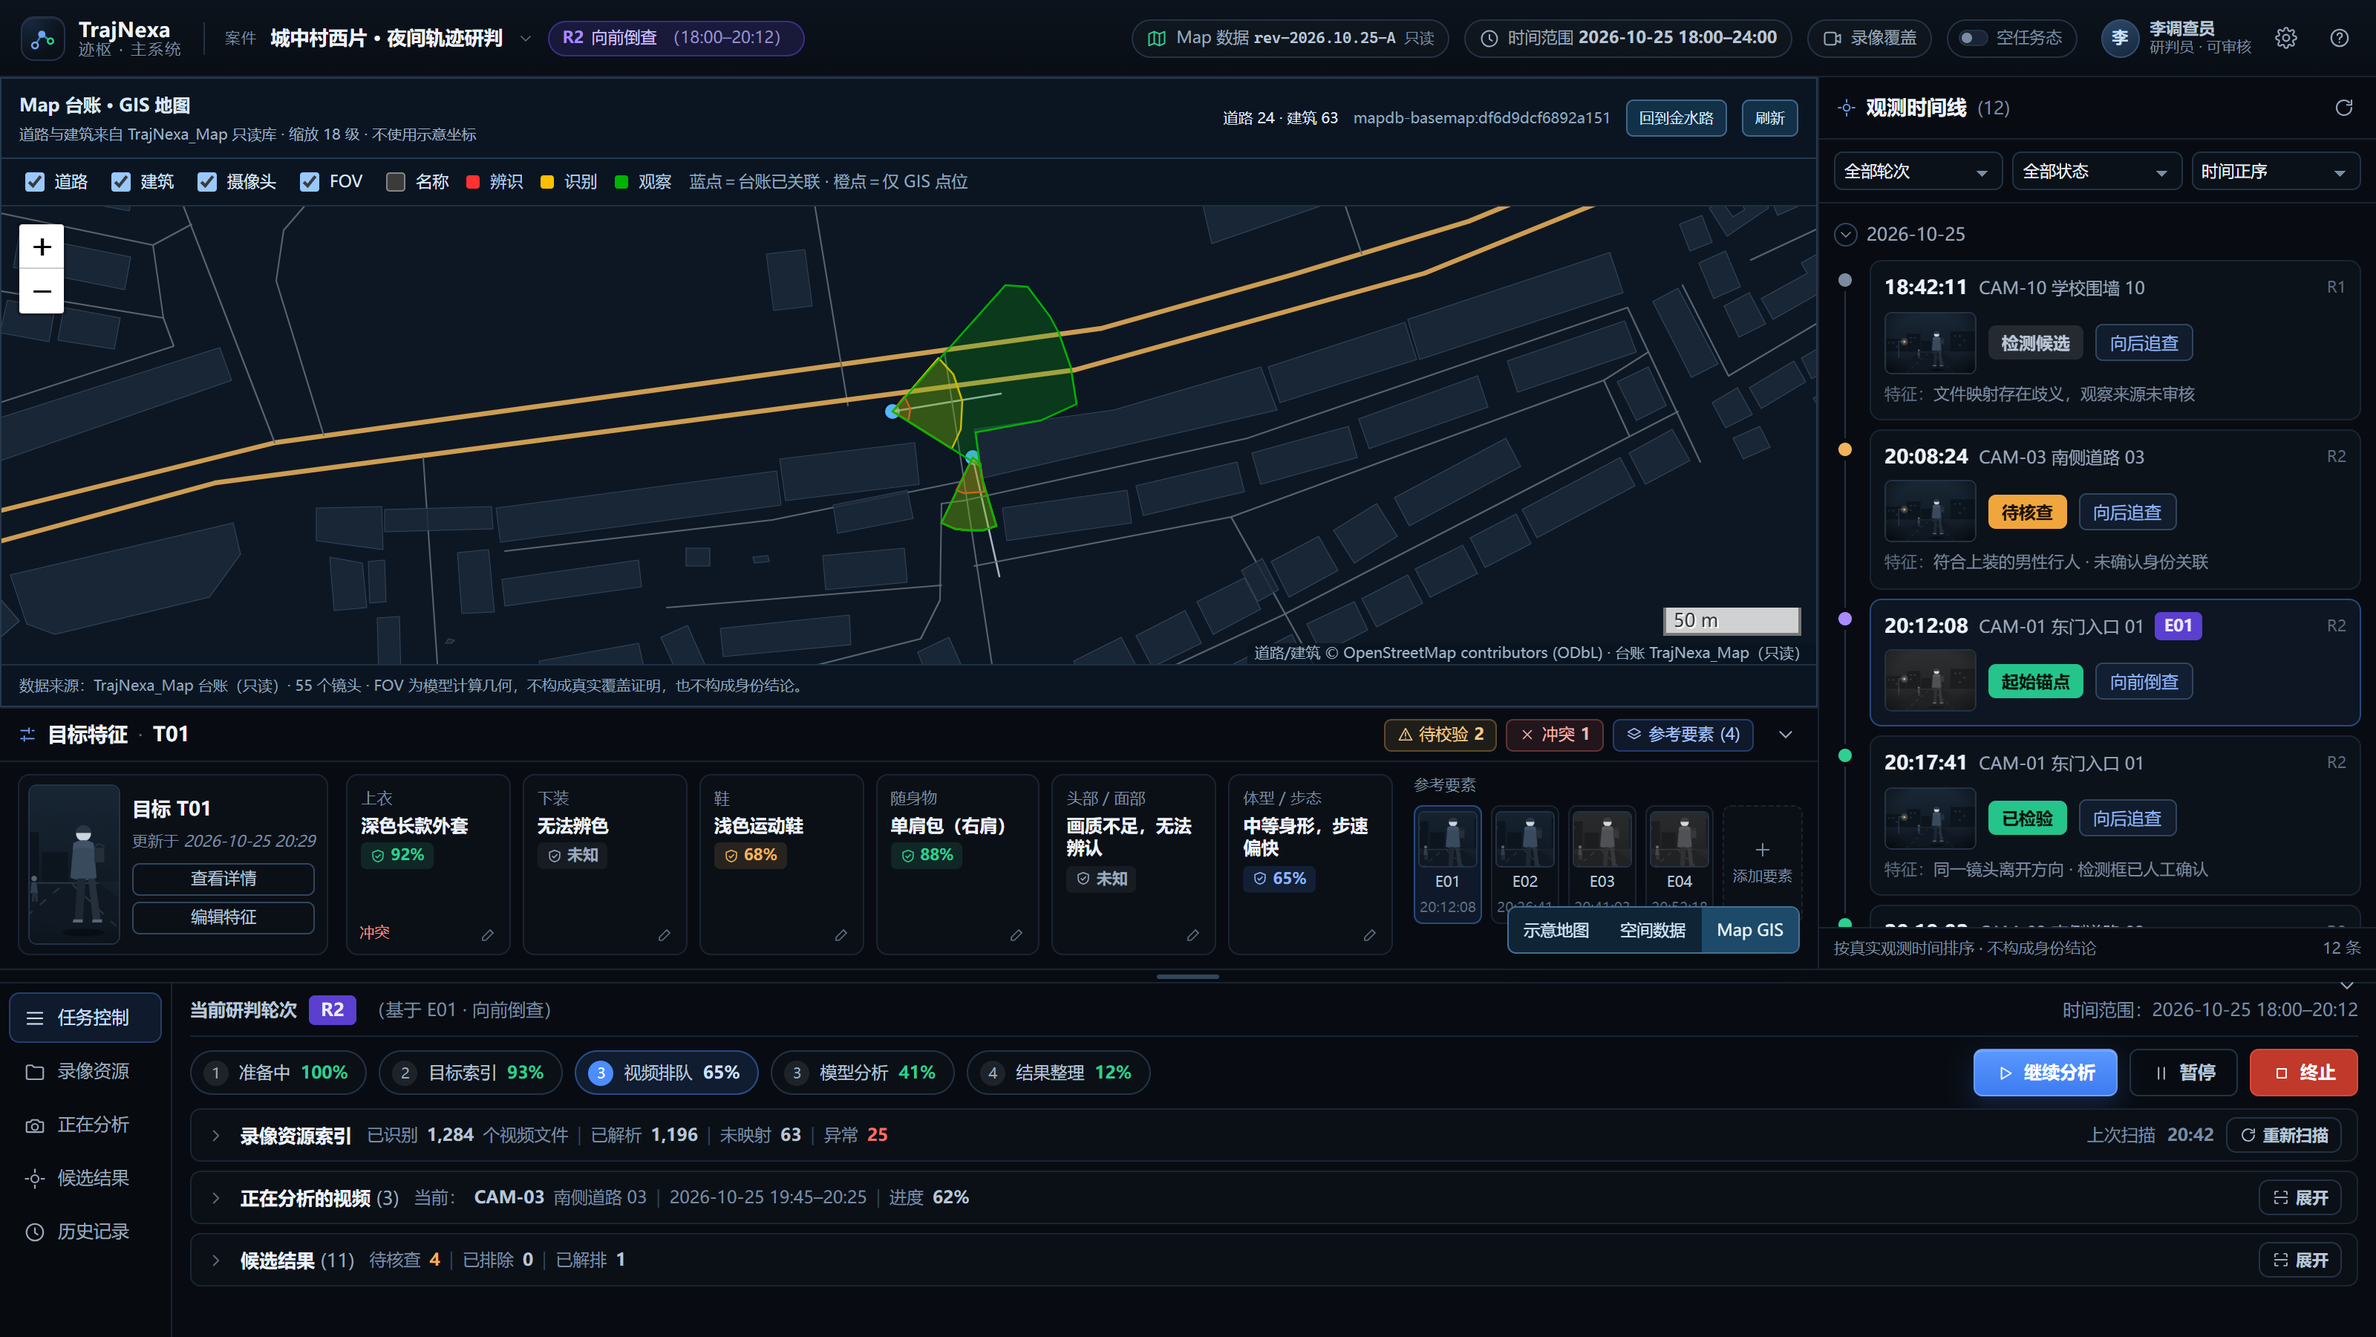
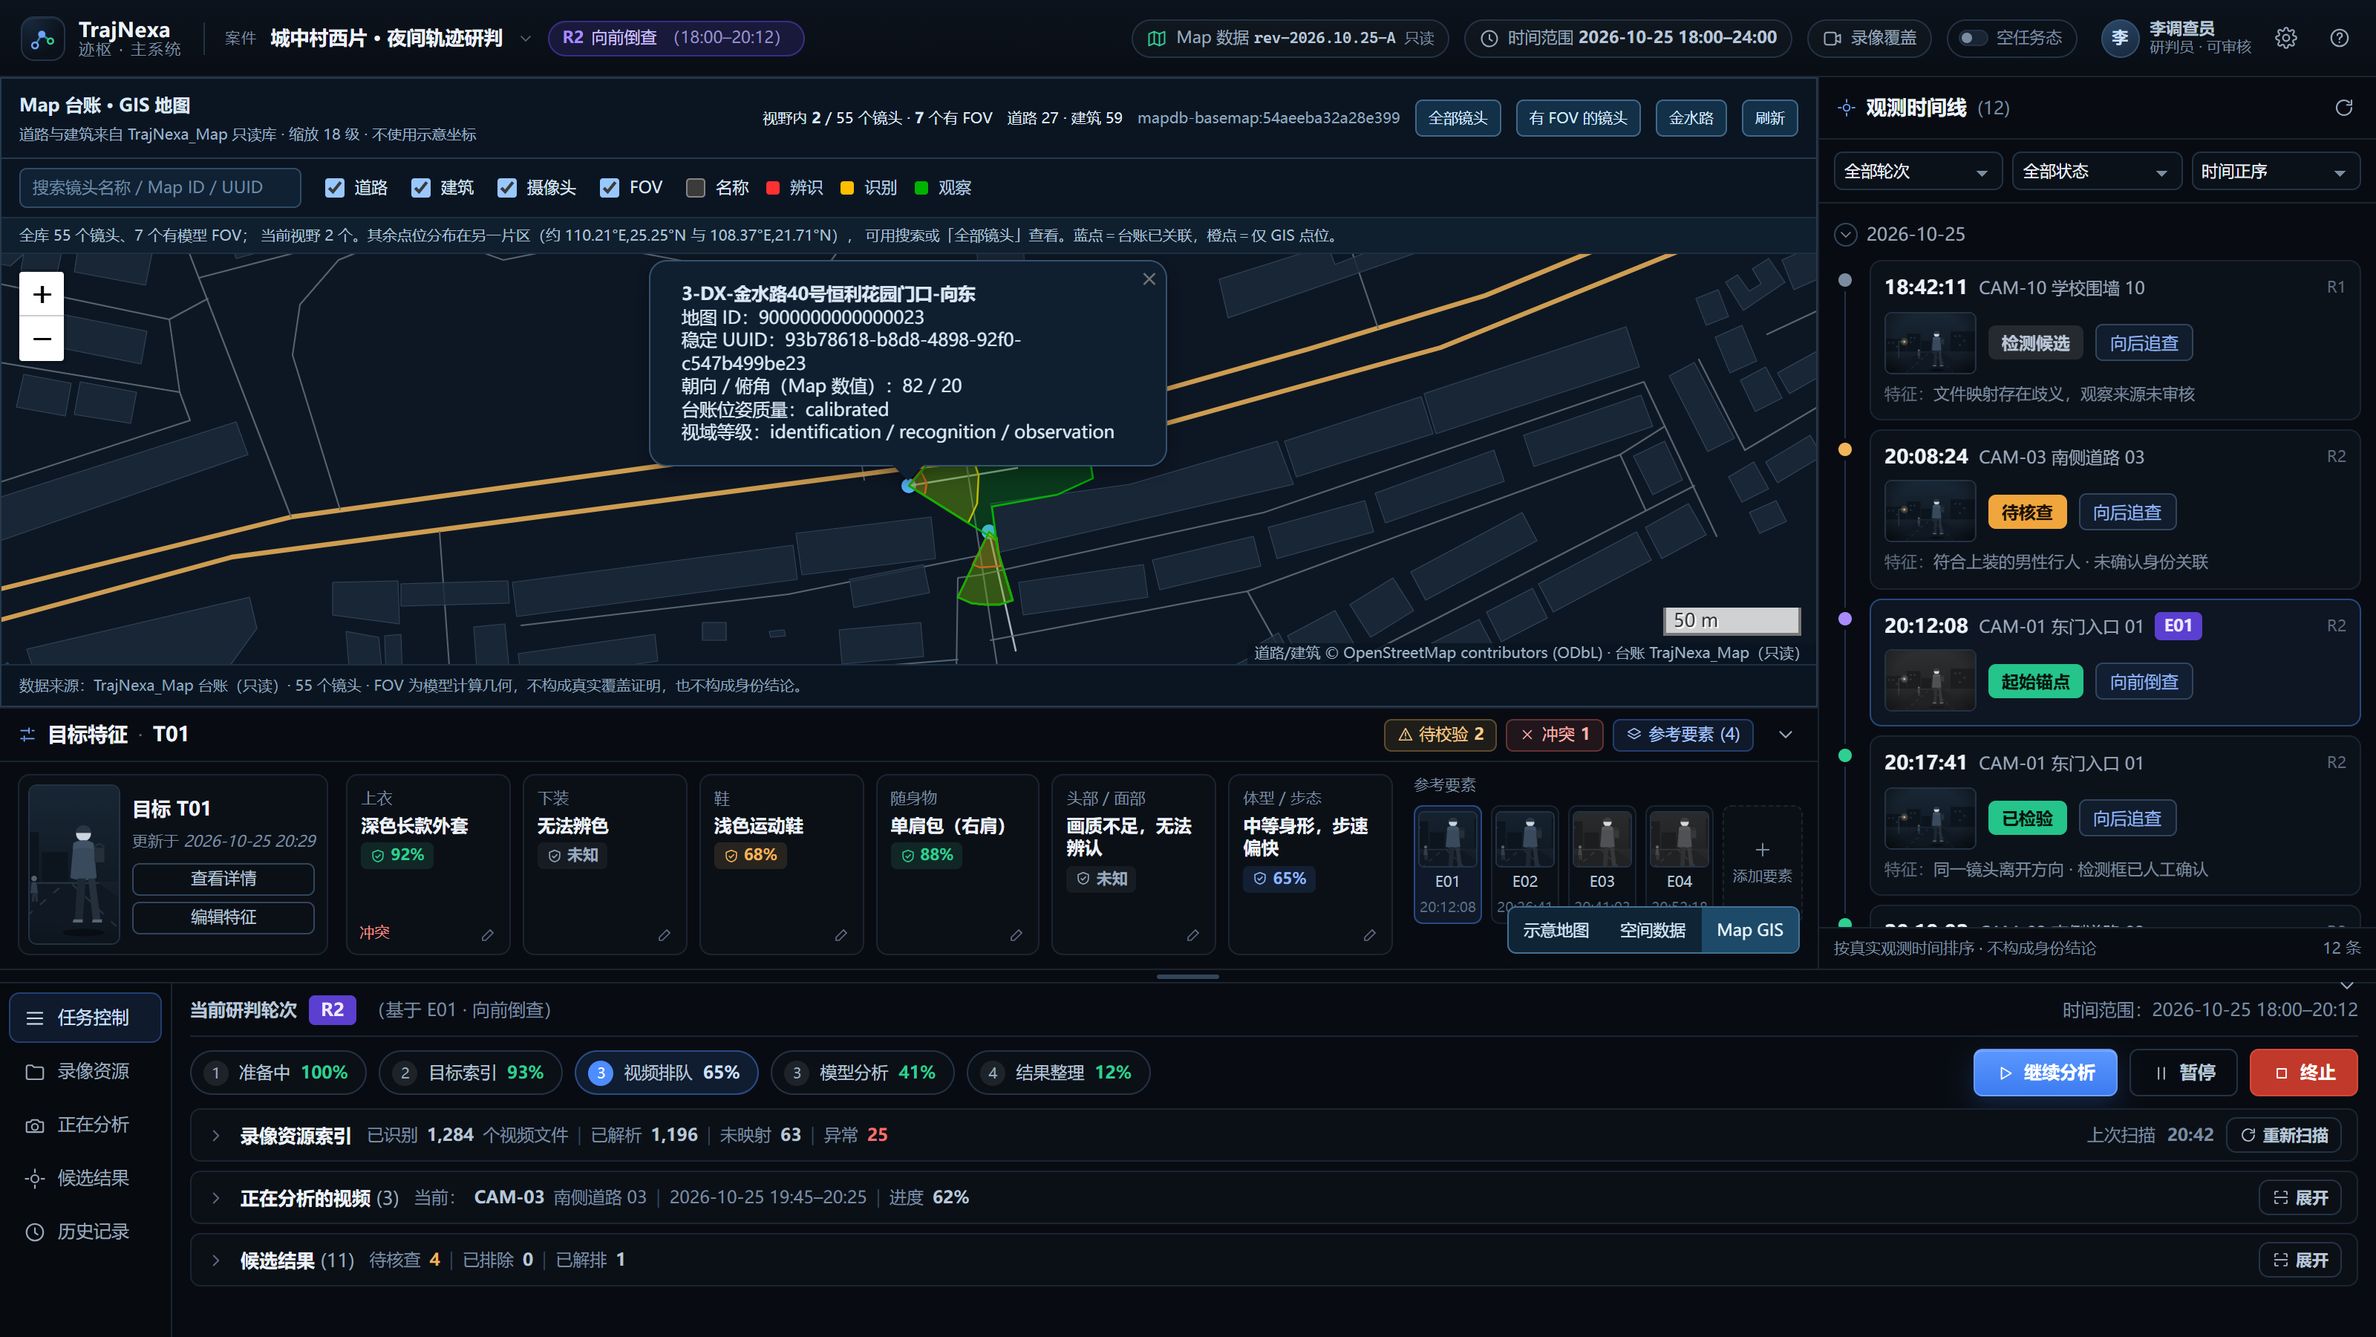
fix(m2c): 让全部 Map 镜头与 FOV 可被找到
- 顶栏显示“视野内 N / 全库 55 个镜头 · 7 个有 FOV”，并给出 全部镜头 / 有 FOV 的镜头 / 金水路 三个定位按钮
- 新增镜头搜索（名称、Map ID、UUID），命中后定位到 18 级并打开元数据弹窗
- 默认视野仍是金水路 16 级：55 个点位分布在两片区（110.21/25.25 与 108.37/21.71），跨片区视野会把 FOV 缩成像素
- 视野跨城或低于 13 级时主动清空道路/建筑并提示放大，避免旧范围几何被误读
- 层级可见性只做开关，不再在每次缩放时重建镜头图层，弹窗可正常打开

diff --git a/frontend/src/components/MapGisView.vue b/frontend/src/components/MapGisView.vue
@@ -1,5 +1,5 @@
 <script setup lang="ts">
-import { onMounted, onUnmounted, ref, watch } from "vue";
+import { computed, onMounted, onUnmounted, ref, watch } from "vue";
 import L from "leaflet";
 import "leaflet/dist/leaflet.css";
 
@@ -32,6 +32,18 @@ const showBuildings = ref(true);
 const showCameras = ref(true);
 const showFov = ref(true);
 const showLabels = ref(false);
+const visibleCount = ref(0);
+const fitted = ref(false);
+const query = ref("");
+const markers = new Map<string, L.CircleMarker>();
+
+const matches = computed(() => {
+  const text = query.value.trim().toLowerCase();
+  if (!text) return [];
+  return (cameras.value?.cameras ?? [])
+    .filter((cam) => `${cam.display_name ?? ""} ${cam.map_camera_id} ${cam.camera_uuid ?? ""}`.toLowerCase().includes(text))
+    .slice(0, 8);
+});
 
 let map: L.Map | null = null;
 let canvas: L.Canvas | null = null;
@@ -90,6 +102,7 @@ function drawCameras() {
   cameraLayer?.clearLayers();
   fovLayer?.clearLayers();
   labelLayer?.clearLayers();
+  markers.clear();
   for (const cam of cameras.value?.cameras ?? []) {
     if (showFov.value) {
       for (const level of cam.fov_levels) {
@@ -116,6 +129,7 @@ function drawCameras() {
       fillOpacity: 1,
     }).addTo(cameraLayer!);
     marker.bindPopup(cameraPopup(cam));
+    markers.set(cam.map_camera_id, marker);
     const line = headingLine(cam);
     if (line) L.polyline(line, { color: "#eef6ff", weight: 1.3, opacity: 0.7, interactive: false }).addTo(cameraLayer!);
     if (showLabels.value) {
@@ -153,7 +167,15 @@ function drawBasemap(data: Basemap) {
   if (showBuildings.value && map.getZoom() >= 15) buildingLayer.addTo(map);
 }
 
-function applyToggles() {
+function clearBasemapLayers() {
+  roadLayer?.remove();
+  buildingLayer?.remove();
+  roadLayer = null;
+  buildingLayer = null;
+  basemap.value = null;
+}
+
+function applyLayerVisibility() {
   if (!map) return;
   if (roadLayer) {
     if (showRoads.value && !map.hasLayer(roadLayer)) roadLayer.addTo(map);
@@ -164,6 +186,11 @@ function applyToggles() {
     if (want && !map.hasLayer(buildingLayer)) buildingLayer.addTo(map);
     if (!want && map.hasLayer(buildingLayer)) buildingLayer.remove();
   }
+}
+
+function applyToggles() {
+  if (!map) return;
+  applyLayerVisibility();
   drawCameras();
   if (cameraLayer) {
     if (showCameras.value && !map.hasLayer(cameraLayer)) cameraLayer.addTo(map);
@@ -189,10 +216,18 @@ async function loadBasemap() {
   const level = Math.round(map.getZoom());
   zoom.value = level;
   if (level < 13) {
-    notice.value = "缩放级别过低，道路与建筑在放大后按范围加载。";
+    clearBasemapLayers();
+    notice.value = "当前缩放只显示镜头点位与模型 FOV，放大到 13 级以上再加载道路与建筑。";
     return;
   }
   const bounds = map.getBounds();
+  const spanLon = bounds.getEast() - bounds.getWest();
+  const spanLat = bounds.getNorth() - bounds.getSouth();
+  if (spanLon > 0.45 || spanLat > 0.45) {
+    clearBasemapLayers();
+    notice.value = "视野过大（跨城市），道路与建筑在放大到 13 级以上后再按范围加载；镜头点位与 FOV 始终显示。";
+    return;
+  }
   const key = boundsKey(bounds, level);
   if (key === lastKey && basemap.value) return;
   lastKey = key;
@@ -231,9 +266,63 @@ async function loadCameras() {
     if (!response.ok || body?.status !== "available") throw new Error(body?.error?.code || "map_unavailable");
     cameras.value = body as CameraResult;
     drawCameras();
+    updateVisible();
+    if (!fitted.value) { fitted.value = true; fitArea(); }
   } catch (e) {
     cameraError.value = e instanceof Error ? e.message : "request_failed";
   }
+}
+
+function updateVisible() {
+  if (!map) return;
+  const bounds = map.getBounds();
+  visibleCount.value = (cameras.value?.cameras ?? [])
+    .filter((cam) => bounds.contains([cam.location.lat, cam.location.lon])).length;
+}
+
+function fitCameras(list: Camera[], maxZoom = 16) {
+  if (!map || !list.length) return;
+  const bounds = L.latLngBounds(list.map((c) => [c.location.lat, c.location.lon] as L.LatLngTuple));
+  map.fitBounds(bounds, { padding: [28, 28], maxZoom });
+  updateVisible();
+}
+
+function fitAll() {
+  fitCameras(cameras.value?.cameras ?? [], 14);
+}
+
+function fitFov() {
+  const all = cameras.value?.cameras ?? [];
+  const withFov = all.filter((c) => c.fov_levels.length);
+  fitCameras(withFov.length ? withFov : all, 15);
+}
+
+// default view: the densest 0.1-degree cluster (usually one city), so points and FOV are actually legible
+function fitDensest() {
+  const all = cameras.value?.cameras ?? [];
+  if (!all.length) return;
+  const cells = new Map<string, Camera[]>();
+  for (const cam of all) {
+    const key = `${Math.round(cam.location.lon * 10)},${Math.round(cam.location.lat * 10)}`;
+    const list = cells.get(key) ?? [];
+    list.push(cam);
+    cells.set(key, list);
+  }
+  const best = [...cells.values()].sort((a, b) => b.length - a.length)[0] ?? all;
+  fitCameras(best, 17);
+}
+
+function fitArea() {
+  map?.fitBounds([[25.249, 110.204], [25.254, 110.214]]);
+  updateVisible();
+}
+
+function selectCamera(cam: Camera) {
+  if (!map) return;
+  query.value = "";
+  map.setView([cam.location.lat, cam.location.lon], 18);
+  updateVisible();
+  window.setTimeout(() => markers.get(cam.map_camera_id)?.openPopup(), 450);
 }
 
 function scheduleLoad() {
@@ -241,7 +330,8 @@ function scheduleLoad() {
   timer = window.setTimeout(() => { void loadBasemap(); }, 250);
 }
 
-watch([showRoads, showBuildings, showCameras, showFov, showLabels], applyToggles);
+watch([showRoads, showBuildings], applyLayerVisibility);
+watch([showCameras, showFov, showLabels], applyToggles);
 
 onMounted(() => {
   if (!host.value) return;
@@ -259,8 +349,13 @@ onMounted(() => {
   fovLayer = L.layerGroup().addTo(instance);
   cameraLayer = L.layerGroup().addTo(instance);
   labelLayer = L.layerGroup().addTo(instance);
-  instance.on("moveend", scheduleLoad);
-  instance.on("zoomend", () => { zoom.value = Math.round(instance.getZoom()); applyToggles(); scheduleLoad(); });
+  instance.on("moveend", () => { updateVisible(); scheduleLoad(); });
+  instance.on("zoomend", () => {
+    zoom.value = Math.round(instance.getZoom());
+    updateVisible();
+    applyLayerVisibility();
+    scheduleLoad();
+  });
   void loadCameras();
   void loadBasemap();
 });
@@ -281,23 +376,45 @@ onUnmounted(() => {
         <small>道路与建筑来自 TrajNexa_Map 只读库 · 缩放 {{ zoom }} 级 · 不使用示意坐标</small>
       </div>
       <div class="status">
+        <span class="counts">
+          视野内 <b>{{ visibleCount }}</b> / {{ cameras?.counts.displayable_points ?? 0 }} 个镜头 ·
+          <b>{{ cameras?.counts.with_fov ?? 0 }}</b> 个有 FOV
+        </span>
         <span v-if="basemap">道路 {{ basemap.counts.roads }} · 建筑 {{ basemap.counts.buildings }}</span>
         <span v-if="loading" class="dim">加载中…</span>
         <span v-if="basemap" class="dim">{{ basemap.basemap_revision }}</span>
-        <button type="button" class="ghost" @click="map?.fitBounds([[25.249, 110.204], [25.254, 110.214]])">回到金水路</button>
+        <button type="button" class="ghost" @click="fitAll">全部镜头</button>
+        <button type="button" class="ghost" @click="fitFov">有 FOV 的镜头</button>
+        <button type="button" class="ghost" @click="fitArea">金水路</button>
         <button type="button" class="ghost" @click="loadBasemap">刷新</button>
       </div>
     </header>
 
     <div class="toolbar">
+      <div class="search">
+        <input v-model="query" type="search" placeholder="搜索镜头名称 / Map ID / UUID" aria-label="搜索镜头" />
+        <ul v-if="matches.length" class="hits">
+          <li v-for="cam in matches" :key="cam.map_camera_id" @click="selectCamera(cam)">
+            <span class="truncate">{{ cam.display_name || "未登记名称" }}</span>
+            <span class="dim">#{{ cam.map_camera_id }}</span>
+            <span class="dim">{{ cam.fov_levels.length ? "有 FOV" : "仅点位" }}</span>
+          </li>
+        </ul>
+        <p v-else-if="query.trim()" class="none">没有匹配的镜头</p>
+      </div>
       <label><input v-model="showRoads" type="checkbox" />道路</label>
       <label><input v-model="showBuildings" type="checkbox" />建筑</label>
       <label><input v-model="showCameras" type="checkbox" />摄像头</label>
       <label><input v-model="showFov" type="checkbox" />FOV</label>
       <label><input v-model="showLabels" type="checkbox" />名称</label>
       <span class="legend"><i class="lv1" />辨识 <i class="lv2" />识别 <i class="lv3" />观察</span>
-      <span class="dim">蓝点＝台账已关联 · 橙点＝仅 GIS 点位</span>
     </div>
+
+    <p v-if="visibleCount < (cameras?.counts.displayable_points ?? 0)" class="hint">
+      全库 {{ cameras?.counts.displayable_points ?? 0 }} 个镜头、{{ cameras?.counts.with_fov ?? 0 }} 个有模型 FOV；
+      当前视野 {{ visibleCount }} 个。其余点位分布在另一片区（约 110.21°E,25.25°N 与 108.37°E,21.71°N），
+      可用搜索或「全部镜头」查看。蓝点＝台账已关联，橙点＝仅 GIS 点位。
+    </p>
 
     <p v-if="cameraError || basemapError" class="banner err">
       数据读取失败：{{ basemapError || cameraError }}（不显示任何替代几何，请检查 Map 只读账号与网络）
@@ -343,6 +460,51 @@ header {
   padding: 6px 12px; border-bottom: 1px solid #1f2f42; font-size: 11px;
 }
 .toolbar label { display: flex; align-items: center; gap: 4px; cursor: pointer; }
+.search { position: relative; display: flex; align-items: center; }
+.search input {
+  width: 190px;
+  padding: 4px 8px;
+  color: #dbe8f6;
+  background: #0f2133;
+  border: 1px solid #2f4c67;
+  border-radius: 5px;
+  font-size: 11px;
+}
+.search input::placeholder { color: #6f8aa3; }
+.hits, .none {
+  position: absolute;
+  top: 26px;
+  left: 0;
+  z-index: 50;
+  width: 260px;
+  margin: 0;
+  padding: 4px;
+  list-style: none;
+  background: #0f2133;
+  border: 1px solid #2f4c67;
+  border-radius: 6px;
+  box-shadow: 0 8px 22px rgba(3, 9, 16, 0.6);
+  font-size: 11px;
+}
+.none { padding: 6px 8px; color: #8ea6bd; width: auto; }
+.hits li {
+  display: grid;
+  grid-template-columns: minmax(0, 1fr) auto auto;
+  gap: 6px;
+  padding: 5px 6px;
+  border-radius: 4px;
+  cursor: pointer;
+}
+.hits li:hover { background: #17324a; }
+.hits .truncate { overflow: hidden; text-overflow: ellipsis; white-space: nowrap; }
+.hint {
+  margin: 0;
+  padding: 4px 12px;
+  border-bottom: 1px solid #1f2f42;
+  background: #101f2e;
+  color: #a9c1d6;
+  font-size: 10px;
+}
 .legend { display: flex; align-items: center; gap: 4px; color: #b9cde0; }
 .legend i { width: 9px; height: 9px; border-radius: 2px; display: inline-block; margin-right: 3px; }
 .legend i:not(:first-child) { margin-left: 8px; }

diff --git a/design/18_M2c_主系统独立GIS地图.md b/design/18_M2c_主系统独立GIS地图.md
@@ -45,12 +45,25 @@ GET /api/v1/spatial/basemap?bbox=west,south,east,north&zoom=16
 
 | 项目 | 结果 |
 | --- | --- |
-| 缩放 16（金水路） | 道路 238 · 建筑 686，`mapdb-basemap:56257390e8dfb62d` |
-| 缩放 18（近景） | 道路 15 · 建筑 29，两级校准镜头的三级 FOV 面与朝向线可见 |
+| 缩放 16（金水路，默认） | 视野内 2/55 个镜头，道路 219 · 建筑 632，`mapdb-basemap:68a18d7c0074ec9d` |
+| 缩放 18（近景） | 道路 26 · 建筑 54，搜索定位到镜头后弹出元数据（UUID/朝向/俯角/位姿/FOV 等级），三级 FOV 楔形清晰 |
 | 缩放 13 | 道路 2679 · 建筑不加载，提示“放大到 15 级后出现” |
+| 缩放 6（全部镜头） | 55/55 可见，底图与建筑自动清空并提示放大，不保留旧范围几何 |
+| 镜头搜索 | 输入「金水路」命中 2 条，点击定位 18 级并打开弹窗 |
 | 图层开关 | 道路/建筑/摄像头/FOV/名称 均即时生效 |
 | 控制台 | 无报错；1280×800 无横向溢出 |
 | 只读性 | `trajnexa_reader` 写操作被 `read_only` 事务拒绝 |
+
+## 为什么默认只看到 2 个镜头
+
+Map 台账当前 55 个 GIS 点位分在两个片区：
+
+- 约 `110.21°E, 25.25°N`（金水路一带）2 个，都建了台账（`2000000000000023/24`），姿态 `calibrated`，带三级 FOV；
+- 约 `108.35–108.39°E, 21.65–21.78°N` 53 个，其中 5 个有 `cameras_camerafocus` 模型 FOV，其余仅点位。
+
+7 个有 FOV 的镜头就分布在这两片里，两片相距约 3.5° 纬度，任何能同时容下两片的视野（≈6 级）都会让 FOV 缩成 1–2 像素。
+所以默认视野落在金水路 16 级（道路 219 条、建筑 632 栋、2 个镜头与 FOV 都能看清），并在两处提示“其余点位在另一片区”：
+顶栏 `视野内 2 / 55` 计数 + 镜头搜索 + `全部镜头 / 有 FOV 的镜头 / 金水路` 定位按钮。
 
 ## 仍未做
 

diff --git a/frontend/README.md b/frontend/README.md
@@ -75,7 +75,10 @@ npm run typecheck
 - **覆盖层**：摄像头点位（蓝＝台账已关联、橙＝仅 GIS 点位）、朝向短线、可选名称；FOV 三级面沿用 Map 配色
   （辨识 `#ff3131` / 识别 `#ffbf00` / 观察 `#00b300`，`occlusion_applied=false` 时虚线），单独 canvas 图层保证压在道路之上。
 - **加载策略**：视口变化 250 ms 防抖后请求，`AbortController` 丢弃过期响应；13 级以下提示放大、15 级以下提示建筑不加载；
-  道路/建筑超额时后端返回 503（拒绝而非截断），前端只显示错误码横幅并保留上一次图层，**不画任何替代几何**。
+  道路/建筑超额时后端返回 503（拒绝而非截断），前端只显示错误码横幅并保留上一次图层，**不画任何替代几何**；
+  视野跨城市（>0.45°）时主动清空底图并提示放大，不拿旧范围的几何凑数。
+- **找镜头**：顶栏有「视野内 N / 全库 55」计数与 `全部镜头 / 有 FOV 的镜头 / 金水路` 三个定位按钮，
+  另有按名称、Map ID、UUID 的即时搜索，点结果直接定位到 18 级并弹出镜头元数据（台账 UUID、朝向/俯角、位姿质量、FOV 等级）。
 - **署名与结论**：右下角固定 `© OpenStreetMap contributors (ODbL)` 与台账来源；FOV 标注为模型几何，
   不构成真实覆盖证明，也不构成身份结论。
 
